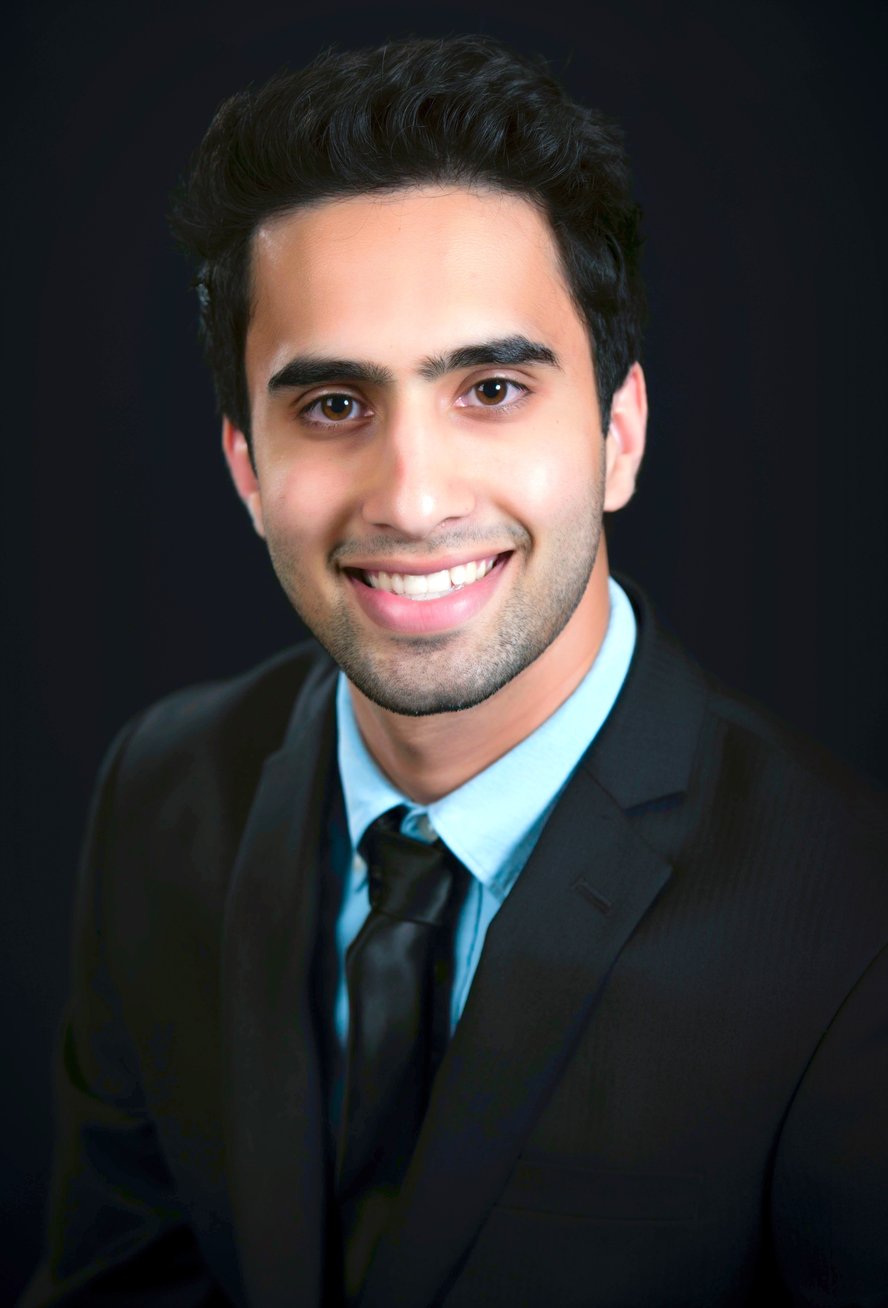
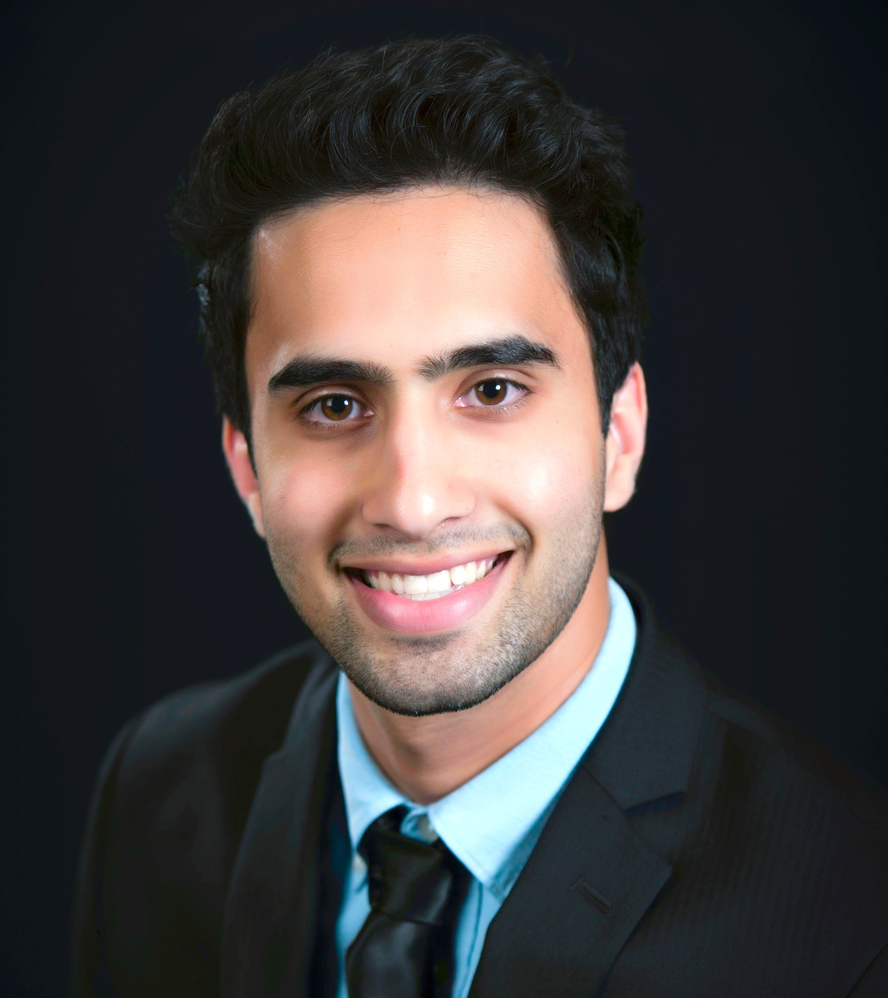
corrected anirudh's name, edited images to fit better in circles, fixed swanns role

diff --git a/warwick_tech/landing_page/templates/landing_page/index.html b/warwick_tech/landing_page/templates/landing_page/index.html
@@ -509,7 +509,7 @@
                             <div class="team-member">
                                 <img src="{% static 'landing_page/images/team/Swann_Willig.png' %}" class="img-responsive img-circle" alt="">
                                 <h4>Swann <br>Willig</h4>
-                                <p class="text-muted">Development Lead</p>
+                                <p class="text-muted">Operations Lead</p>
                                 <p><a href="mailto:swann@warwick.tech" target="_top"><i class="fa fa-envelope-o fa-2x"></i></a></p>
                             </div>
                         </div>
@@ -518,9 +518,9 @@
                         <div class="col-sm-8 col-xs-6 col-xs-offset-3 col-sm-offset-2">
                             <div class="team-member">
                                 <img src="{% static 'landing_page/images/team/Anirudh_Pai.jpg' %}" class="img-responsive img-circle" alt="">
-                                <h4>Aniruhd <br>Pai</h4>
+                                <h4>Anirudh <br>Pai</h4>
                                 <p class="text-muted">Business Developer</p>
-                                <p><a href="mailto:aniruhd@warwick.tech" target="_top"><i class="fa fa-envelope-o fa-2x"></i></a></p>
+                                <p><a href="mailto:anirudh@warwick.tech" target="_top"><i class="fa fa-envelope-o fa-2x"></i></a></p>
                             </div>
                         </div>
                     </div>
